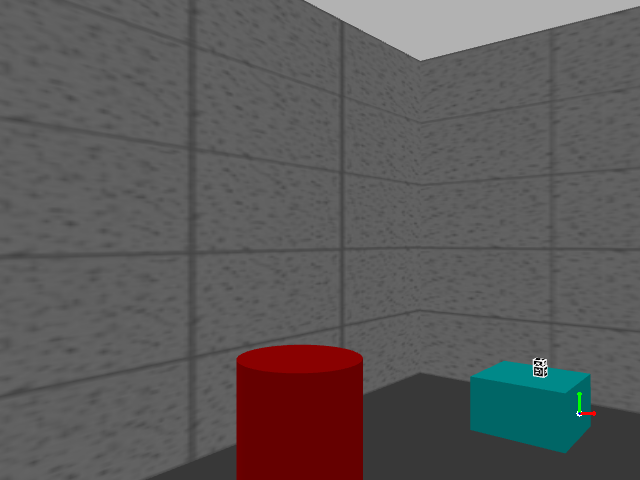
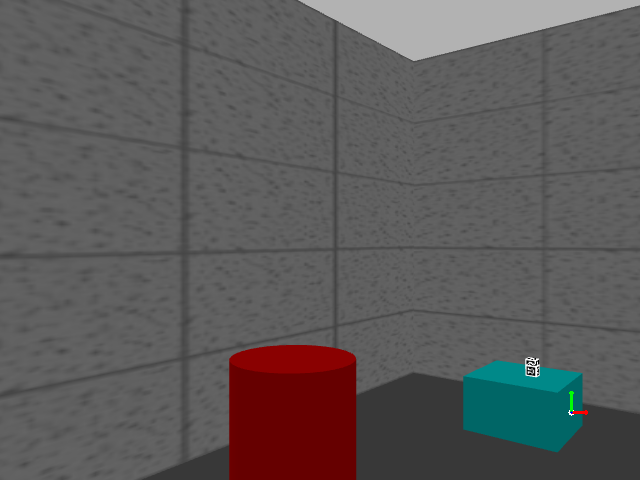
fix yaw problem

diff --git a/exam_ws/src/tiago_exam_navigation/tiago_exam_navigation/navigate_to_pose.py b/exam_ws/src/tiago_exam_navigation/tiago_exam_navigation/navigate_to_pose.py
@@ -26,7 +26,7 @@ class NavigationClient(Node):
         goal_pose.header.stamp = self.get_clock().now().to_msg()
         goal_pose.pose.position.x = x
         goal_pose.pose.position.y = y
-        goal_pose.pose.orientation.z = theta  # Simplified orientation (yaw)
+        goal_pose.pose.orientation.z = float(theta)  # Simplified orientation (yaw)
         goal_pose.pose.orientation.w = 1.0    # No rotation (quaternion format)
 
         goal_msg = NavigateToPose.Goal()
@@ -57,7 +57,7 @@ def main(args=None):
     rclpy.init(args=args)
     
     # Example coordinates (replace with your pick/place locations)
-    pick_location = [0.4733485875269737, -3.1811477117431344 + 0.5, 0.0016043322745957767]  # (x, y, theta)
+    pick_location = [-1.9327, -0.887, 0.0]  # (x, y, theta)
     #pick_location = (0.55, -2.6, 0.9)  # [1.5080750759796975, -3.1757305318477194, 0.0]
     #place_location = (-1.35, -1.35, 0.2)
     

diff --git a/exam_ws/src/tiago_exam_navigation/tiago_exam_navigation/align_to_box_face.py b/exam_ws/src/tiago_exam_navigation/tiago_exam_navigation/align_to_box_face.py
@@ -370,7 +370,10 @@ class BoxFaceNavigator(Node):
         #self.get_logger().info(f"prima componente: {x_axis[0]}")
         #self.get_logger().info(f"seconda copmponente: {x_axis[0]}")
         # normal will be uscente dalla faccia, x axis will point toward the face -> default yaw = 180 ergo: np.pi - ...
-        yaw = np.pi - math.atan2(x_axis[1], x_axis[0])
+        if yaw > 0:
+            yaw = math.atan2(x_axis[1], x_axis[0]) - np.pi
+        elif yaw < 0:
+            yaw = math.atan2(x_axis[1], x_axis[0]) + np.pi
         if abs(yaw) < self.yaw_threshold:
             yaw = 0.0
         
